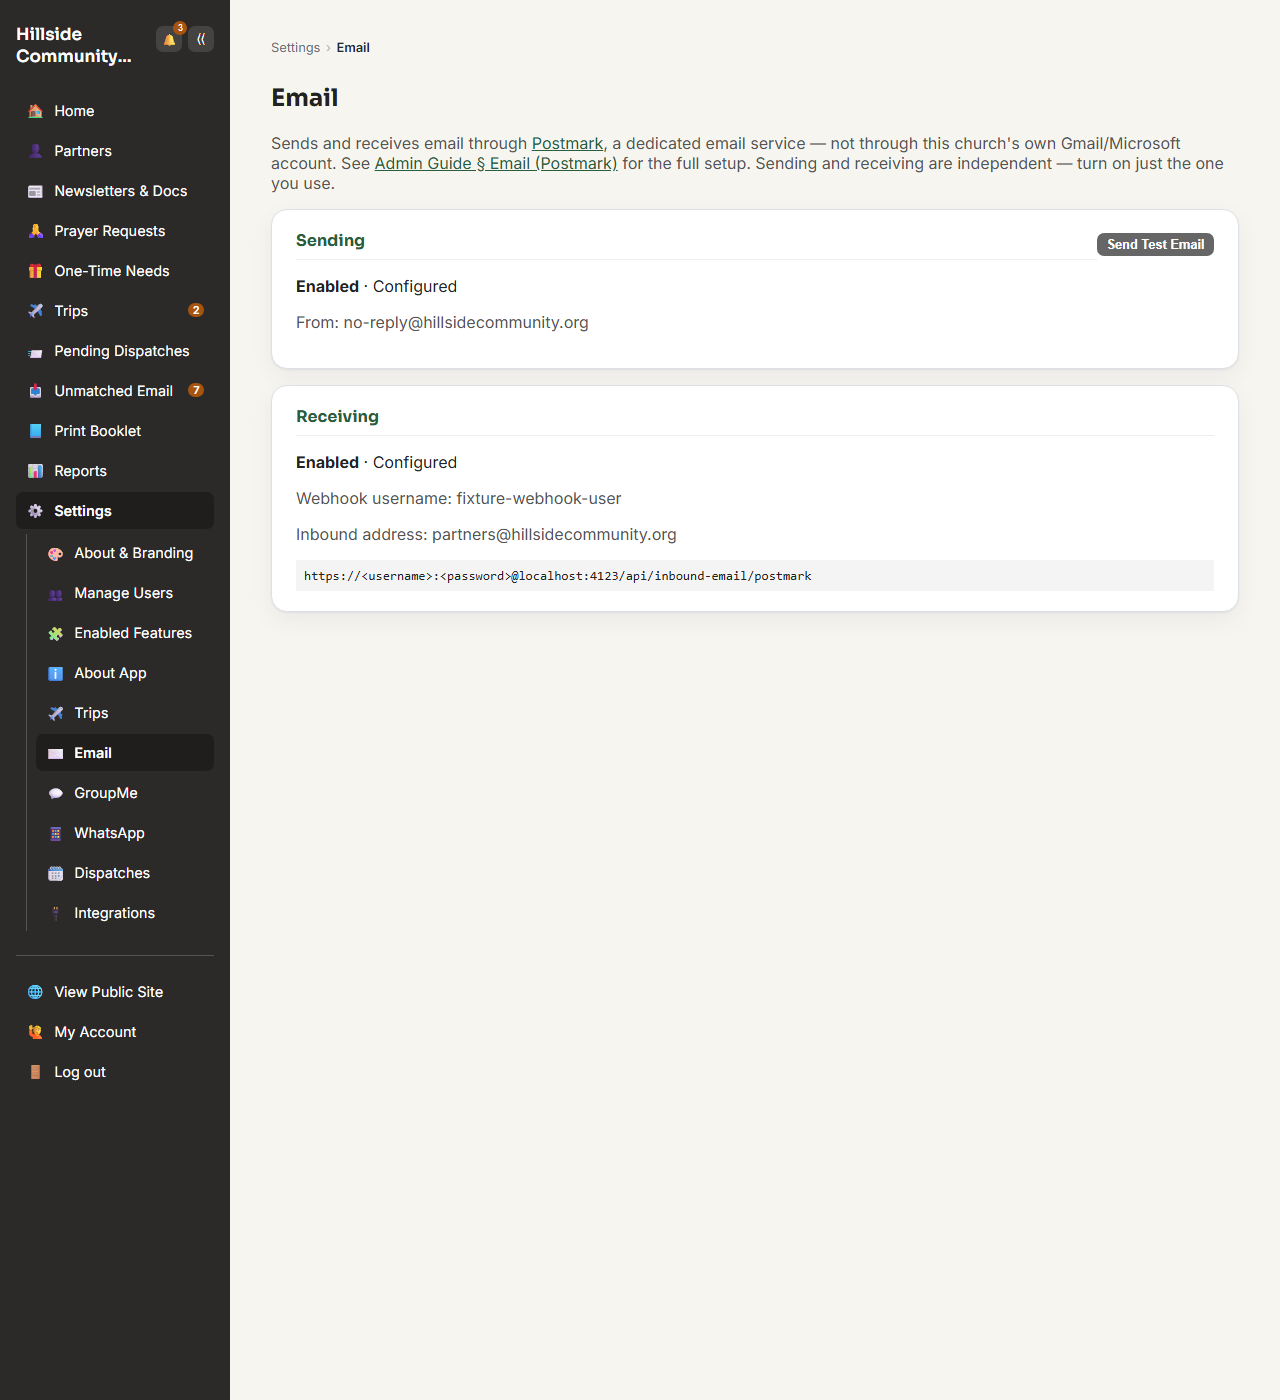
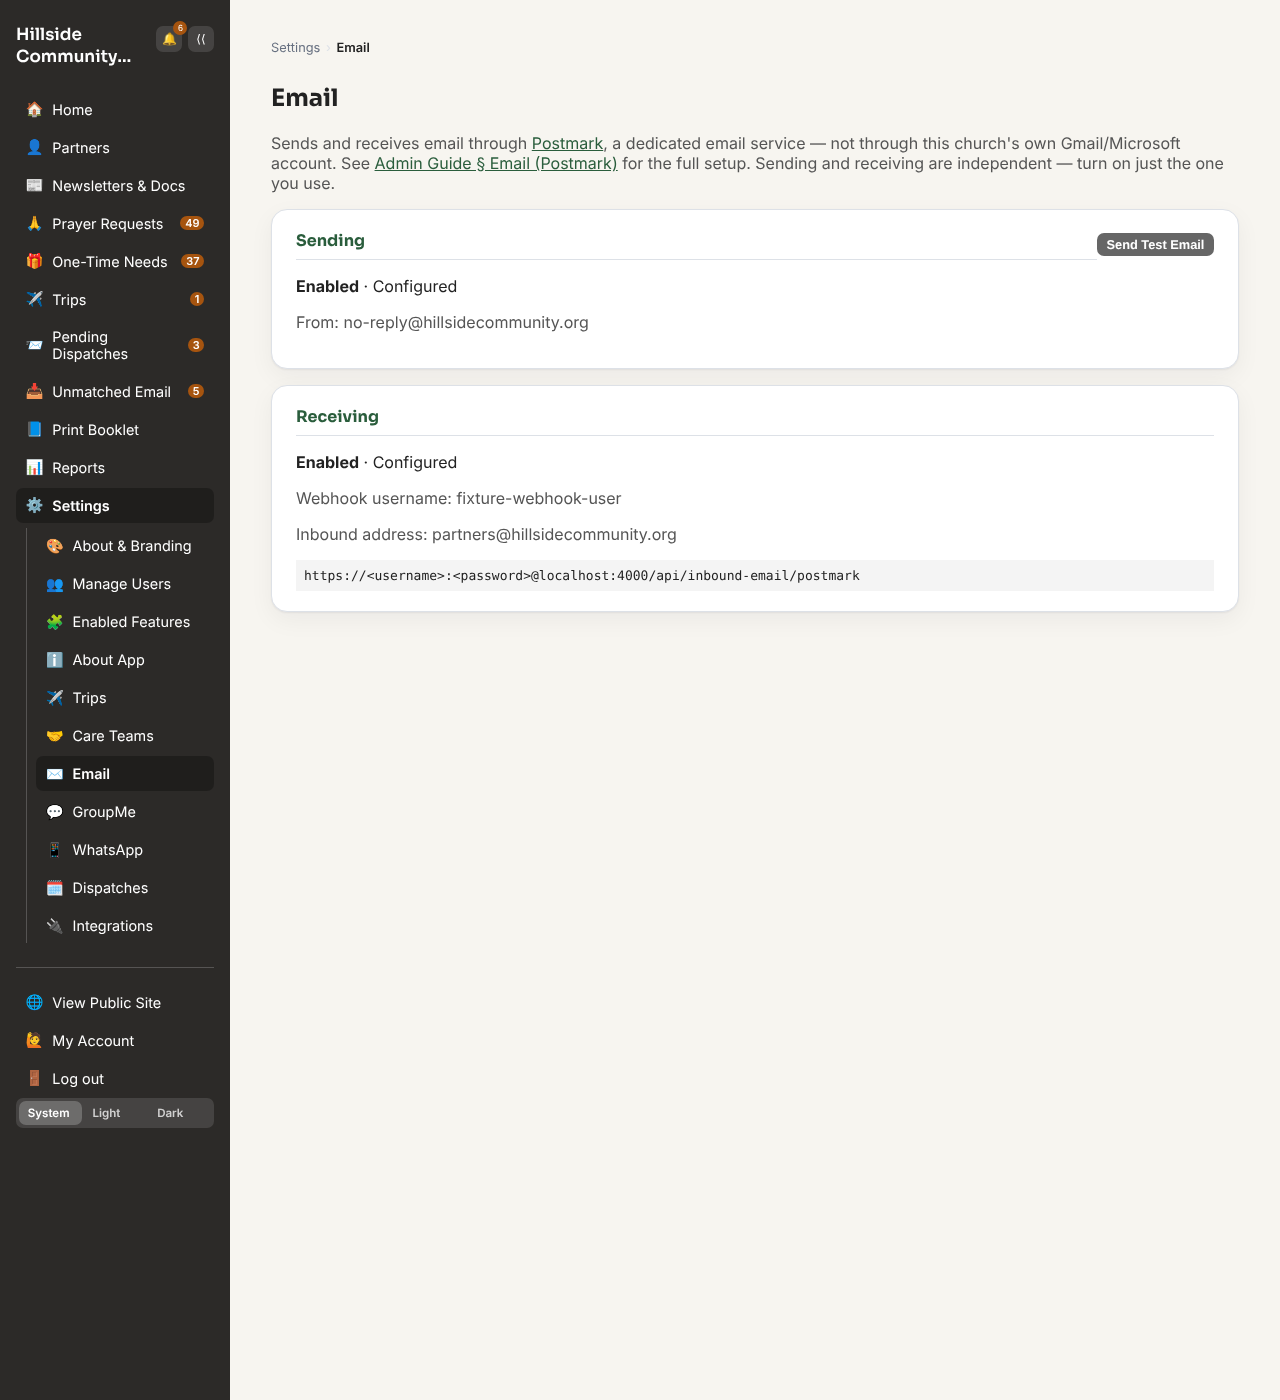
Document the partner care feature set with screenshots
Adds 14 new screenshots (care team panel and dialog, contact card and
log, assigned-to-me, bell alerts, key-date email, care teams settings,
guest/care member view, add-user care team step, Admin Features toggles),
recaptures the 14 settings-page shots made stale by the new Care Teams
nav entry, and embeds them in USER_GUIDE and ADMIN_GUIDE.

Also fixes the care team dialog's Members list, where the global label
style stacked each checkbox above its name.

Claude-Session: https://claude.ai/code/session_01MmRKDYXLtPvHu3ZZXFwPQ9

diff --git a/frontend/src/components/admin/CareTeamPanel.jsx b/frontend/src/components/admin/CareTeamPanel.jsx
@@ -166,18 +166,32 @@ function EditCareTeamModal({ partnerId, team, canInviteGuest, onClose, onSaved }
               {candidates
                 .filter((u) => u.id !== leadUserId)
                 .map((u) => (
+                  // .admin-shell label stacks its children in a bold column; a checkbox row
+                  // needs the row layout and normal weight (like .admin-checkbox-row).
                   <label
                     key={u.id}
-                    style={{ display: "flex", gap: "0.5rem", alignItems: "center", padding: "0.2rem 0" }}
+                    style={{
+                      display: "flex",
+                      flexDirection: "row",
+                      gap: "0.6rem",
+                      alignItems: "center",
+                      padding: "0.25rem 0",
+                      fontWeight: "normal",
+                      fontSize: "0.95rem",
+                    }}
                   >
                     <input
                       type="checkbox"
-                      style={{ width: "auto" }}
+                      style={{ width: "auto", flexShrink: 0 }}
                       checked={memberIds.has(u.id)}
                       onChange={() => toggle(u.id)}
                     />
-                    {memberName(u)} <span style={{ color: "var(--muted)" }}>{u.email}</span>
-                    {u.role === "guest" && <span style={{ color: "var(--muted)" }}>· Guest</span>}
+                    <span>
+                      {memberName(u)}
+                      {/* an account with no name already shows as its email */}
+                      {memberName(u) !== u.email && <span style={{ color: "var(--muted)" }}> {u.email}</span>}
+                      {u.role === "guest" && <span style={{ color: "var(--muted)" }}> · Guest</span>}
+                    </span>
                   </label>
                 ))}
             </div>

diff --git a/USER_GUIDE.md b/USER_GUIDE.md
@@ -886,6 +886,8 @@ create their login in one step.
 
 ![The Add User page, with Basics and Account Setup steps](docs/assets/screenshots/add-user.png)
 
+![Add User's Care team step, choosing partners for a Guest to look after](docs/assets/screenshots/add-user-care-team.png)
+
 Editing an existing user (from their row in Manage Users) lets you change
 role, deactivate, force MFA enrollment, or reset a password. **Reset MFA**
 clears a locked-out user's two-factor setup so they can log back in with
@@ -1065,6 +1067,10 @@ group with new and decided needs:
 
 With **Care teams** turned on in [Enabled Features](ADMIN_GUIDE.md#feature-toggles), every partner can have a **care team**: one **Lead** and any number of **Members**, the people at the church who keep in touch with that partner. An admin or editor sets it from the partner's page (**Care team**, near the top) or from the **Team** tab of one of that partner's trips, and can also add someone to a partner's team while creating their account (**Add User → Care team**). Everyone on a team needs a login; someone who isn't on your staff can be a **Guest**. **Reports → Care team coverage** lists the partners with no team or no lead.
 
+![A partner's page with the Care team panel (a Lead and Members) beside the Contact card](docs/assets/screenshots/care-team-and-contact.png)
+
+![The Care team dialog, choosing a Lead and ticking Members](docs/assets/screenshots/assign-care-team.png)
+
 A care team member uses the same app as everyone, and for **their own partner** they can do what an editor can: edit the partner's profile, family, contact details, links and photos; add and edit prayer requests (and record answers) and one-time needs; and upload, edit and scan newsletters and documents. They can also see that partner's trips, read-only. Three things are different:
 
 - **What they enter is saved immediately, but isn't sent to the church** by email, GroupMe or WhatsApp **until an admin or editor approves it** in [Pending Dispatches](#pending-dispatches). They can't mark anything urgent or use "approve now".
@@ -1073,17 +1079,29 @@ A care team member uses the same app as everyone, and for **their own partner** 
 
 They also can't create or delete partners, or delete records. If you're an admin or editor yourself, being on a team doesn't limit you or hold your entries; it just adds the care-team features.
 
+![Pending Dispatches, where an entry from a care team member is held for staff to approve](docs/assets/screenshots/pending-dispatches-care-team.png)
+
 A **trip leader** (a Guest given a trip) has a smaller view: their trips, and those trips' partners read-only. They don't get the care-team list pages or one-time needs.
+
+![A care team member's view of their partner: they can edit what's theirs, and see no monthly support](docs/assets/screenshots/care-team-member-view.png)
 
 ### Contact log
 
 With **Contact log** turned on in [Enabled Features](ADMIN_GUIDE.md#feature-toggles), every partner page gets a **Contact** card and a **Contact Log**.
 
 - **The contact card** shows who to reach first (the adult marked **Primary contact**, or an organization's named contact), how they prefer to be reached, and one-tap **Call**, **Text**, **Email** and **WhatsApp** buttons, plus when anyone last was in touch.
+
+![A partner's Contact card, and the special communication instructions that replace the buttons when a partner isn't safe to contact](docs/assets/screenshots/contact-card-instructions.png)
 - **If a partner isn't safe to contact**, the buttons and numbers are replaced by the **special communication instructions** staff wrote (edit them under Status & Visibility). The printed booklet also leaves out their phone, email and preferred method.
 - **Log a contact** with **+ Log contact**: pick what happened (call, text, email, visit, card, video, prayed for them), who reached out, optional topics, the date, who made the contact (you, by default), an optional note and an optional **follow up by** date. Anyone who can see the partner can log one. Only an admin or editor can edit or delete an entry.
+
+![The Log a contact dialog](docs/assets/screenshots/log-a-contact.png)
+
+![A partner's Contact Log, newest first](docs/assets/screenshots/contact-log.png)
 - **A prayer request a care team member enters** also logs the contact, so it isn't typed twice.
 - **Assigned to me** (a tab on the Partners page, for anyone on a care team) lists your partners longest-quiet first: days since the last contact, any follow-up that has come due, the next birthday or anniversary, and open prayer requests and needs. A partner counts as **quiet** after 90 days without a logged contact.
+
+![The Assigned to me tab, listing a care team member's partners longest-quiet first](docs/assets/screenshots/assigned-to-me.png)
 - **Partners to reach out to** on the bell and Home page counts your partners that are quiet or have a follow-up due.
 
 The **Last heard from** report counts a logged contact as hearing from a partner: a partner is only "quiet" when both the latest newsletter and the latest contact are old. Trip leaders don't get the contact log.
@@ -1093,8 +1111,14 @@ The **Last heard from** report counts a logged contact as hearing from a partner
 With **Key-date reminders** turned on (it needs [Care teams](#care-teams)), the people on a partner's care team are reminded about a coming **birthday** (including the children's), **wedding anniversary**, or **supported-since milestone** (the first year, then every fifth) a week ahead.
 
 - **On the bell and the Home page** as "Key dates coming up". Open it to find the partner. The **Assigned to me** tab also flags a key date inside the week.
+
+![The bell, with Key dates coming up among a care team member's alerts](docs/assets/screenshots/bell-alerts.png)
 - **By email**, one message a day, only on a day something is due, listing everything coming up for your partners (not one email per partner). It needs Email (Sending) turned on, and it's sent at 7am church time.
+
+![The grouped key-date email](docs/assets/screenshots/key-date-email.png)
 - **Who gets it:** the whole care team, lead and members. A partner with no care team goes to the **default lead** an admin picks under Settings → Care Teams; with neither, nobody hears about it.
+
+![Settings → Care Teams, where an admin picks the default lead](docs/assets/screenshots/care-teams-settings.png)
 - **To clear a reminder**, send the card or make the call and **log it as a contact with the topic "Key date"**. That stops the reminders for that occasion, and it counts as being in touch.
 - The app never sends the card for you, and a restricted partner appears in the email by initials only. A partner who isn't safe to contact is marked in the email so a reminder to "send a card" isn't read as "call them".
 

diff --git a/ADMIN_GUIDE.md b/ADMIN_GUIDE.md
@@ -219,6 +219,8 @@ prayer digest nested under Email (Sending) since it depends on it), and
 | Email (Receiving) | **Off** | Lets partners email newsletter updates straight into this app via a Postmark inbound webhook, auto-filed to the matching partner or queued in Unmatched Emails otherwise. Set up on the same Settings → Email page as Sending, independently toggled. Also sets the one informational **Inbound Email Address** field — purely display, not required for the webhook itself. See [§ Email (Postmark)](#email-postmark) below. |
 | Public prayer digest | **Off** | Lets anyone subscribe (no login) to email digests of prayer-request updates, from the public **Subscribe** page (`/subscribe`) or from a single partner's own page — for all partners or just the ones they pick. Also requires Public directory and Email (Sending) to be on — shown nested under Email (Sending) on this page, and its checkbox can't be turned on until that one is. See [§ Dispatch: GroupMe, the admin digest, and the public digest](#dispatch-groupme-the-admin-digest-and-the-public-digest) below. |
 
+![The Admin Features dialog, with the Contact log, Key-date reminders and Care teams toggles](docs/assets/screenshots/enabled-features-admin.png)
+
 The registry backing this list lives in `backend/src/utils/features.js` —
 adding a new toggle later is a one-line entry there plus a `requireFeature("key")`
 check on the relevant route(s), not a database migration.
